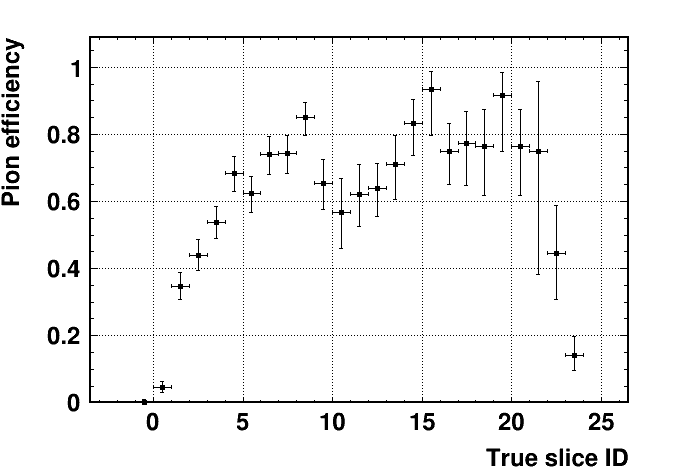
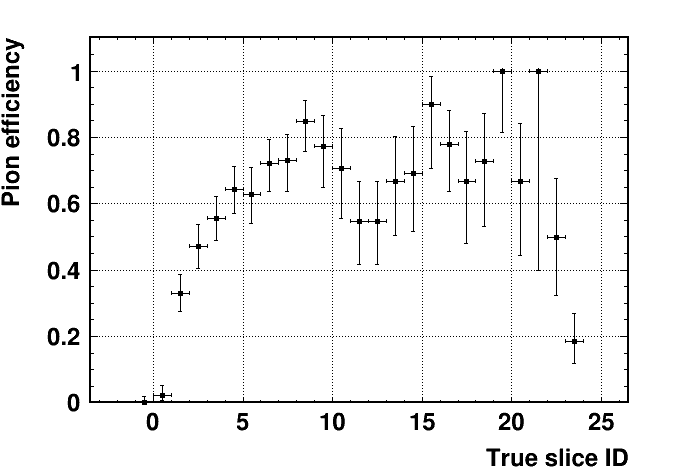
Change file name.

diff --git a/macros/ploteffpur.C b/macros/ploteffpur.C
@@ -1,6 +1,6 @@
 {
 
-  TFile *file = TFile::Open("../install/bin/hadana.root");
+  TFile *file = TFile::Open("../install/bin/mc.root");
 
   TH1D *h_truesliceid_pion_all = (TH1D*)file->Get("h_truesliceid_pion_all");
   TH1D *h_truesliceid_pion_cuts = (TH1D*)file->Get("h_truesliceid_pion_cuts");
